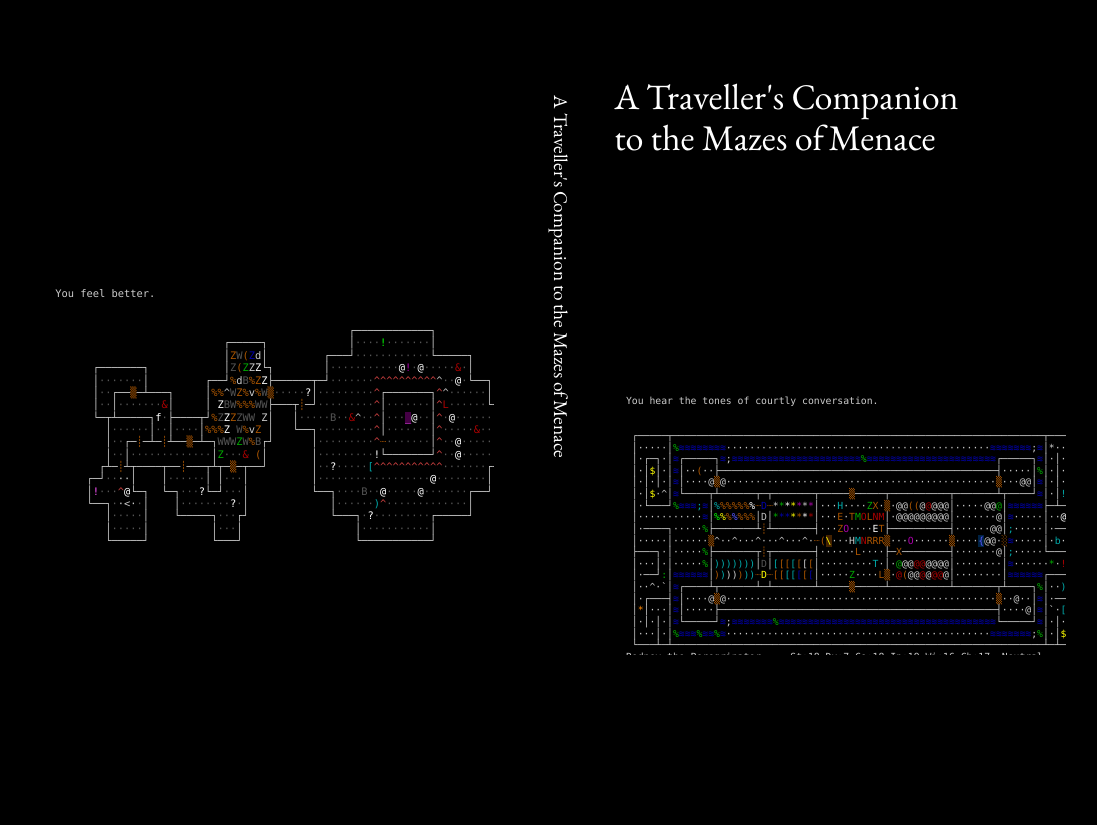
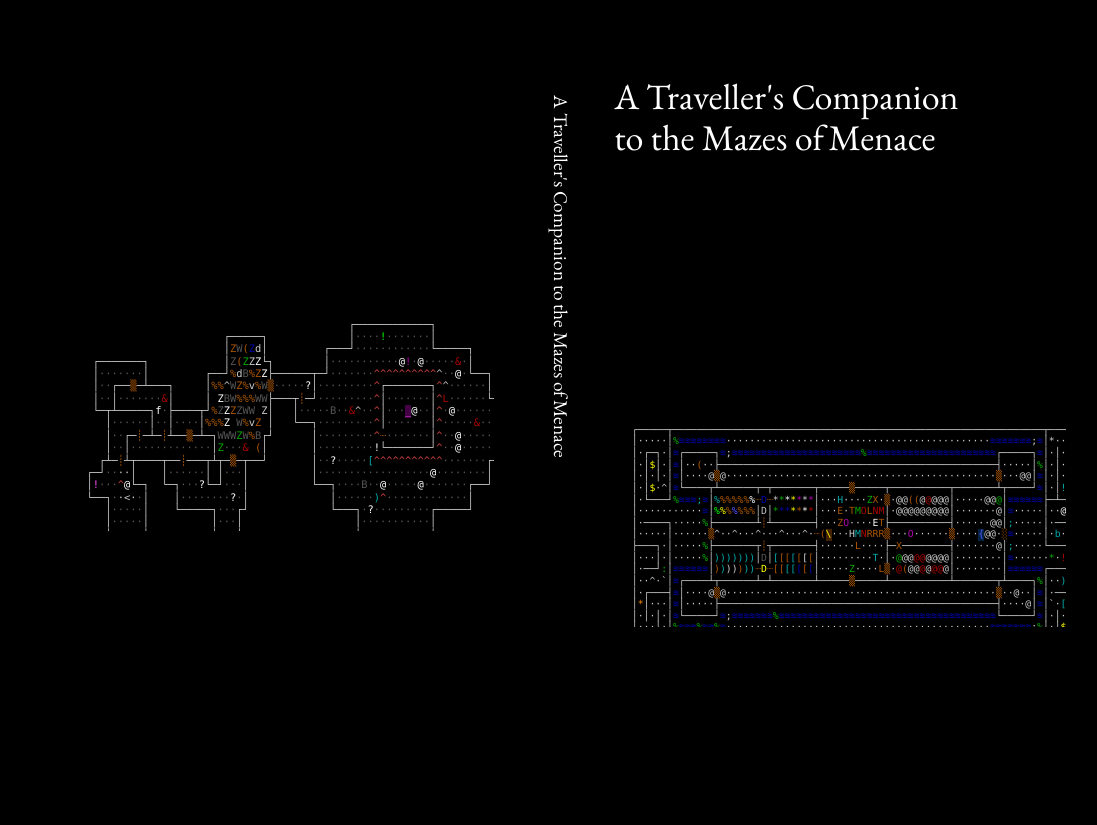
spoilers: audit units #146/#147/#148/#149 + cover-art clipping
#146 Lizards: clean.
#147 Felines: reframed two minor imprecisions — tigers are hostile,
not "early companions"; kittens are guaranteed only for Wizards,
50/50 for Valkyrie/Tourist.
#148 Morning star: clean.
#149 Mummies: dropped the false "touch curses your worn items"
claim (mummies do plain AD_PHYS; AD_CURS is gremlins). Tightened
the section intro. Added cold/sleep/pois-res notes to elf and
human mummy rows for consistency.

Cover work: clip the top "You hear..." message line and bottom
status line off the front and back NetHack-screenshot SVGs, so
the outside cover shows the dungeon maps alone. Plus the
Sokoban-conduct "solve it the way designers intended" line
dropped.

diff --git a/spoilers/index.html b/spoilers/index.html
@@ -9369,11 +9369,10 @@ counter: pushing into a wall to <strong>squeeze past</strong> a boulder
 (when you drop your stuff to fit), <strong>fracturing</strong> a boulder
 with a wand of striking or scroll of earth,
 <strong>polymorphing</strong> a boulder, or <strong>dismounting</strong>
-onto a boulder. Levitation and flying skip pits without penalty. Solve
-it the way the puzzle designers intended, by actually solving the
-puzzle. The game tracks violations automatically. The conduct is for
-players who enjoy Sokoban’s boulder-shoving and want their playthrough
-to acknowledge a clean solve.</p>
+onto a boulder. Levitation and flying skip pits without penalty. The
+game tracks violations automatically. The conduct is for players who
+enjoy Sokoban’s boulder-shoving and want their playthrough to
+acknowledge a clean solve.</p>
 </section>
 <section id="bonesless-new-in-5.0" class="level4">
 <h4>Bonesless (new in 5.0)</h4>
@@ -10412,6 +10411,7 @@ mace.</td>
 </section>
 <section id="morning-star" class="level4">
 <h4>Morning star</h4>
+<!-- audit 2026-05-18 #148: clean. Damage 1d4+1d4 / 1d6+1, weight 120, cost 10, hit 0, iron — all match objects.h:364 with bonus dice from weapon.c:225-289. P_MORNING_STAR is its own skill class (skills.h:35, id 12), distinct from P_MACE (id 11). No artifact morning star exists. -->
 <div class="dense-table">
 <table>
 <colgroup>
@@ -13972,8 +13972,13 @@ eyes first. Corpse grants telepathy.</td>
 </section>
 <section id="felines-f" class="level4">
 <h4>Felines <code>f</code></h4>
-<p>Cats. Several are starting pets. Tigers are durable melee and good
-early companions if tamed.</p>
+<!-- audit 2026-05-18 #147: all stats clean against monsters.h:381-444. Two minor reframings: (1) "Tigers are good early companions if tamed" — tigers are M2_HOSTILE (not M2_DOMESTIC) and difficulty 8, so they're tameable only with charm-monster/scroll-of-taming/magic-flute, not via tripe-feeding, and not really "early." (2) Kittens — only Wizard guarantees a kitten via urole.petnum=PM_KITTEN (role.c:548); Valkyrie/Tourist roll 50/50 kitten-or-dog via dog.c:90-101. Reworded the intro. -->
+<p>Cats. Kittens are common starting pets (Wizards always start with
+one; Valkyries and Tourists roll 50/50 between kitten and little dog).
+Wild felines (jaguar, lynx, panther, tiger, displacer beast) are hostile
+by default; you’d need a charm-monster spell, scroll of taming, or magic
+flute to flip them, and the wild rows aren’t really “early-game”
+creatures.</p>
 <div class="dense-table">
 <table>
 <colgroup>
@@ -16727,8 +16732,8 @@ resistance mandatory.</td>
 </section>
 <section id="mummies-m" class="level4">
 <h4>Mummies <code>M</code></h4>
-<p>Touch curses your worn items. Bring uncursing on hand (holy water,
-remove curse).</p>
+<!-- audit 2026-05-18 #149: corrected the "touch curses your worn items" advice — every mummy's attack in monsters.h:1901-1968 is plain AD_PHYS; only gremlins have AD_CURS (monattk.h:92). No special curse logic for S_MUMMY in mhitu.c/uhitm.c/mhitm.c. The note was residue from the prior "mummy withering" myth that audit #46 was supposed to scrub. Reworded to factual physical-only + undead-turning vulnerability. -->
+<p>Mindless undead. Wand and scroll of undead turning shred them.</p>
 <p>All mummies have poisonous corpses and are mindless and undead.</p>
 <div class="dense-table">
 <table>
@@ -16803,7 +16808,7 @@ remove curse).</p>
 <td>4</td>
 <td>30</td>
 <td>claw 2d4</td>
-<td></td>
+<td>cold-res, sleep-res, pois-res.</td>
 </tr>
 <tr>
 <td>human mummy</td>
@@ -16813,7 +16818,7 @@ remove curse).</p>
 <td>4</td>
 <td>30</td>
 <td>claw 2d4 · claw 2d4</td>
-<td></td>
+<td>cold-res, sleep-res, pois-res.</td>
 </tr>
 <tr>
 <td>ettin mummy</td>
@@ -19219,6 +19224,7 @@ fight one from a water square without magical breathing or escape.</p>
 </section>
 <section id="lizards" class="level4">
 <h4>Lizards <code>:</code></h4>
+<!-- audit 2026-05-18 #146: clean. All 8 entries (newt, gecko, iguana, baby crocodile, lizard, chameleon, crocodile, salamander) match monsters.h:3260-3324 for stats, attacks, and special flags. Lizard corpse cures stoning (eat.c:827-830, fix_petrification), never rots (eat.c:1483, 1510). Newt corpse occasionally restores 1-3 Pw via eye_of_newt_buzz (eat.c:1102-1123). Chameleon is M2_SHAPESHIFTER. Salamander has the 4-attack chain weapon 2d8 / touch 1d6 fire / hug 2d6 / hug 3d6 fire. -->
 <p>Mostly harmless. <strong>Lizard corpses cure petrification and never
 rot.</strong> Carry one at all times — this is the standard answer to
 cockatrices and Medusa.</p>

diff --git a/spoilers/cover/build-cover.py b/spoilers/cover/build-cover.py
@@ -98,18 +98,20 @@ def prepare(name: str, svg: Path, renderer="rsvg") -> tuple[Path, float, float]:
     return pdf, w, h
 
 
-def crop_pdf_to_viewbox(pdf_path: Path, vb_w: float, vb_h: float, out_path: Path):
-    """Chrome adds page margins and lays the SVG at the top-left of a
-    full US-letter page (612x792 by default). Crop to the SVG content
-    (assumed at origin)."""
+def crop_pdf_to_viewbox(pdf_path: Path, vb_w: float, vb_h: float, out_path: Path,
+                        top_px=0, bottom_px=0):
+    """Chrome lays the SVG at the top-left of a US-letter page. Crop to the
+    viewBox (1 SVG px = 0.75 pt at default 96 DPI), optionally trimming
+    `top_px` SVG-pixels off the top and `bottom_px` SVG-pixels off the
+    bottom. This is used to clip the NetHack-screenshot SVGs to just the
+    map area (no top "You hear..." message line, no bottom status line)."""
     src = fitz.open(pdf_path)
     page = src[0]
-    # Chrome at default settings renders SVG at its viewBox size in pt (1px = 0.75pt),
-    # so we need to know what scale Chrome used. Default Chrome print is 96 DPI:
-    # 1 SVG px = 0.75 pt. Our viewBox is in SVG px, so cropped rect = vb_w*0.75 x vb_h*0.75.
-    crop_w = vb_w * 0.75
-    crop_h = vb_h * 0.75
-    page.set_cropbox(fitz.Rect(0, 0, crop_w, crop_h))
+    px_to_pt = 0.75
+    top_pt = top_px * px_to_pt
+    bottom_pt = (vb_h - bottom_px) * px_to_pt
+    crop_w = vb_w * px_to_pt
+    page.set_cropbox(fitz.Rect(0, top_pt, crop_w, bottom_pt))
     src.save(str(out_path))
     src.close()
 
@@ -138,14 +140,24 @@ def main():
     d1_pdf, d1_w, d1_h = prepare("dmap1", HERE / "dmap-1-gehennom-map.svg")
     d2_pdf, d2_w, d2_h = prepare("dmap2", HERE / "dmap-2-elemental-planes-and-ascension.svg")
 
-    # Chrome embeds the SVG on a US-letter page with margins. Crop to viewBox.
+    # Chrome embeds the SVG on a US-letter page with margins. Crop to viewBox
+    # AND trim the top message line ("You hear...") and bottom status line
+    # ("Rodney the Peregrinator / Dlvl:25 ..."). In the SVGs the top message
+    # is at SVG-y≈14 and the status line is at y≈432/451 — so skip the top
+    # 56 px and bottom 36 px (each line ≈ 19 px tall with leading).
     castle_pdf = TMP / "front-castle-crop.pdf"
     sanctum_pdf = TMP / "back-sanctum-crop.pdf"
-    crop_pdf_to_viewbox(castle_raw, castle_w, castle_h, castle_pdf)
-    crop_pdf_to_viewbox(sanctum_raw, sanctum_w, sanctum_h, sanctum_pdf)
+    TOP_CLIP = 56
+    BOTTOM_CLIP = 36
+    crop_pdf_to_viewbox(castle_raw, castle_w, castle_h, castle_pdf,
+                        top_px=TOP_CLIP, bottom_px=BOTTOM_CLIP)
+    crop_pdf_to_viewbox(sanctum_raw, sanctum_w, sanctum_h, sanctum_pdf,
+                        top_px=TOP_CLIP, bottom_px=BOTTOM_CLIP)
     # show_pdf_page uses the cropbox dimensions; recompute logical w/h in pt:
-    castle_w *= 0.75; castle_h *= 0.75
-    sanctum_w *= 0.75; sanctum_h *= 0.75
+    castle_w *= 0.75
+    sanctum_w *= 0.75
+    castle_h = (castle_h - TOP_CLIP - BOTTOM_CLIP) * 0.75
+    sanctum_h = (sanctum_h - TOP_CLIP - BOTTOM_CLIP) * 0.75
 
     out = fitz.open()
 

diff --git a/spoilers/companion-audit.md b/spoilers/companion-audit.md
@@ -5320,3 +5320,82 @@ Source: `spoilers/companion.md` line 6370. 1 correction.
    enumerate the actual triggers with Luck cost.
 
 ---
+
+## 2026-05-18 — Chapter audit #146: Lizards `:`
+
+Source: `spoilers/companion.md` line 8159. No corrections.
+
+### Verified
+- All 8 entries (newt, gecko, iguana, baby crocodile, lizard,
+  chameleon, crocodile, salamander) match monsters.h:3260-3324
+  for stats, attacks, and flags.
+- Lizard corpse cures stoning (eat.c:827-830 fix_petrification).
+- Lizard corpses never rot (eat.c:1483, 1510).
+- Newt corpse → 1-3 Pw via eye_of_newt_buzz (eat.c:1102-1123).
+- Chameleon is M2_SHAPESHIFTER (monsters.h:3305).
+- Salamander 4-attack chain (weap 2d8 / touch 1d6 fire / hug 2d6 /
+  hug 3d6 fire) matches monsters.h:3318-3320.
+
+---
+
+## 2026-05-18 — Chapter audit #147: Felines `f`
+
+Source: `spoilers/companion.md` line 7211. 2 reframings; no
+substantive errors.
+
+### Verified
+- All 8 felines (kitten, housecat, jaguar, lynx, panther, large
+  cat, tiger, displacer beast) match monsters.h:381-444.
+- Displacer beast row consistent with prior #42/#106/#107 prose
+  (lvl 12, AC -10, 4d4/4d4/2d10, MR 0, speed 12, M3_DISPLACES).
+- Tameable (M2_DOMESTIC) entries: kitten, housecat, large cat.
+
+### Reframed
+- "Tigers are good early companions if tamed" — tigers are
+  M2_HOSTILE, difficulty 8, only tameable via magic. Not really
+  "early."
+- "Kittens are common Valkyrie/Wizard/Tourist starting pets" —
+  Wizard guarantees a kitten (role.c:548 PM_KITTEN); Valkyrie and
+  Tourist roll 50/50 via dog.c:90-101. Clarified.
+
+---
+
+## 2026-05-18 — Chapter audit #148: Morning star
+
+Source: `spoilers/companion.md` line 6769. No corrections.
+
+### Verified
+- Damage 1d4+1d4 / 1d6+1 (objects.h:364 sdam=4, ldam=6; weapon.c:
+  225-289 bonus dice).
+- Weight 120, cost 10, hit 0, iron — all match.
+- P_MORNING_STAR is its own skill (skills.h:35 id 12).
+- No artifact form (no MORNING_STAR entry in artilist.h).
+
+---
+
+## 2026-05-18 — Chapter audit #149: Mummies `M`
+
+Source: `spoilers/companion.md` line 7757. 1 correction +
+consistency fixes.
+
+### Verified
+- All 8 mummies (kobold/gnome/orc/dwarf/elf/human/ettin/giant) match
+  monsters.h:1901-1968 for stats, attacks, colors.
+- All mummy attacks are AT_CLAW AD_PHYS (no special status effect).
+- All mummies have MR_COLD | MR_SLEEP | MR_POISON, M1_POIS,
+  M1_MINDLESS, M2_UNDEAD.
+
+### Corrected
+1. **"Touch curses your worn items. Bring uncursing on hand."** —
+   wrong. AD_CURS is gremlins (monattk.h:92); mummies do plain
+   AD_PHYS. No special mummy curse logic in mhitu.c/uhitm.c/
+   mhitm.c. The line was residue from the "mummy withering" myth
+   that audit #46 was supposed to scrub. Reworded to factual
+   plain-physical + undead-turning vulnerability.
+
+### Consistency
+- elf mummy and human mummy rows were missing the "cold-res,
+  sleep-res, pois-res" notes that all other mummy rows carry.
+  Added.
+
+---

diff --git a/spoilers/companion.md b/spoilers/companion.md
@@ -6922,10 +6922,9 @@ costs **1 point of Luck** and increments the conduct counter: pushing
 into a wall to **squeeze past** a boulder (when you drop your stuff
 to fit), **fracturing** a boulder with a wand of striking or scroll
 of earth, **polymorphing** a boulder, or **dismounting** onto a
-boulder. Levitation and flying skip pits without penalty. Solve it
-the way the puzzle designers intended, by actually solving the
-puzzle. The game tracks violations automatically. The conduct is
-for players who enjoy Sokoban's
+boulder. Levitation and flying skip pits without penalty. The game
+tracks violations automatically. The conduct is for players who
+enjoy Sokoban's
 boulder-shoving and want their playthrough to acknowledge a
 clean solve.
 
@@ -7339,6 +7338,8 @@ other bimanual weapon.
 :::
 
 #### Morning star
+<!-- audit 2026-05-18 #148: clean. Damage 1d4+1d4 / 1d6+1, weight 120, cost 10, hit 0, iron — all match objects.h:364 with bonus dice from weapon.c:225-289. P_MORNING_STAR is its own skill class (skills.h:35, id 12), distinct from P_MACE (id 11). No artifact morning star exists. -->
+
 
 ::: dense-table
 
@@ -7985,8 +7986,14 @@ All eyes and spheres fly. All except *floating eye* also are mindless.
 :::
 
 #### Felines `f`
+<!-- audit 2026-05-18 #147: all stats clean against monsters.h:381-444. Two minor reframings: (1) "Tigers are good early companions if tamed" — tigers are M2_HOSTILE (not M2_DOMESTIC) and difficulty 8, so they're tameable only with charm-monster/scroll-of-taming/magic-flute, not via tripe-feeding, and not really "early." (2) Kittens — only Wizard guarantees a kitten via urole.petnum=PM_KITTEN (role.c:548); Valkyrie/Tourist roll 50/50 kitten-or-dog via dog.c:90-101. Reworded the intro. -->
 
-Cats. Several are starting pets. Tigers are durable melee and good early companions if tamed.
+Cats. Kittens are common starting pets (Wizards always start with
+one; Valkyries and Tourists roll 50/50 between kitten and little
+dog). Wild felines (jaguar, lynx, panther, tiger, displacer beast)
+are hostile by default; you'd need a charm-monster spell, scroll
+of taming, or magic flute to flip them, and the wild rows aren't
+really "early-game" creatures.
 
 ::: dense-table
 
@@ -8562,8 +8569,9 @@ All liches regenerate, leave no corpse, and are undead, cold-resistant, sleep-re
 :::
 
 #### Mummies `M`
+<!-- audit 2026-05-18 #149: corrected the "touch curses your worn items" advice — every mummy's attack in monsters.h:1901-1968 is plain AD_PHYS; only gremlins have AD_CURS (monattk.h:92). No special curse logic for S_MUMMY in mhitu.c/uhitm.c/mhitm.c. The note was residue from the prior "mummy withering" myth that audit #46 was supposed to scrub. Reworded to factual physical-only + undead-turning vulnerability. -->
 
-Touch curses your worn items. Bring uncursing on hand (holy water, remove curse).
+Mindless undead. Wand and scroll of undead turning shred them.
 
 All mummies have poisonous corpses and are mindless and undead.
 
@@ -8575,8 +8583,8 @@ All mummies have poisonous corpses and are mindless and undead.
 | gnome mummy | red | 4 | 10 | 6 | 20 | claw 1d6 | cold-res, sleep-res, pois-res. |
 | orc mummy | gray | 5 | 10 | 5 | 20 | claw 1d6 | cold-res, sleep-res, pois-res. |
 | dwarf mummy | red | 5 | 10 | 5 | 20 | claw 1d6 | cold-res, sleep-res, pois-res. |
-| elf mummy | green | 6 | 12 | 4 | 30 | claw 2d4 |  |
-| human mummy | gray | 6 | 12 | 4 | 30 | claw 2d4 · claw 2d4 |  |
+| elf mummy | green | 6 | 12 | 4 | 30 | claw 2d4 | cold-res, sleep-res, pois-res. |
+| human mummy | gray | 6 | 12 | 4 | 30 | claw 2d4 · claw 2d4 | cold-res, sleep-res, pois-res. |
 | ettin mummy | blue | 7 | 12 | 4 | 30 | claw 2d6 · claw 2d6 | cold-res, sleep-res, pois-res. |
 | giant mummy | cyan | 8 | 14 | 3 | 30 | claw 3d4 · claw 3d4 | cold-res, sleep-res, pois-res. |
 
@@ -8994,6 +9002,8 @@ All sea monsters swim and are amphibious.
 :::
 
 #### Lizards `:`
+<!-- audit 2026-05-18 #146: clean. All 8 entries (newt, gecko, iguana, baby crocodile, lizard, chameleon, crocodile, salamander) match monsters.h:3260-3324 for stats, attacks, and special flags. Lizard corpse cures stoning (eat.c:827-830, fix_petrification), never rots (eat.c:1483, 1510). Newt corpse occasionally restores 1-3 Pw via eye_of_newt_buzz (eat.c:1102-1123). Chameleon is M2_SHAPESHIFTER. Salamander has the 4-attack chain weapon 2d8 / touch 1d6 fire / hug 2d6 / hug 3d6 fire. -->
+
 
 Mostly harmless. **Lizard corpses cure petrification and never rot.** Carry one at all times — this is the standard answer to cockatrices and Medusa.
 

diff --git a/spoilers/companion-audit-queue.md b/spoilers/companion-audit-queue.md
@@ -150,10 +150,10 @@ Process in numbered order. Mark each `[x]` as it's audited.
 - [x] **#143**  L 7297  (  17 lines)   ↳ Bestiary Tables → Kobolds `k`
 - [x] **#144**  L 4790  ( 142 lines) 📖 Luck and Fortune
 - [x] **#145**  L 6370  (  10 lines)   ↳ Voluntary Challenges → Sokoban (new in 5.0)
-- [ ] **#146**  L 8159  (  21 lines)   ↳ Bestiary Tables → Lizards `:`
-- [ ] **#147**  L 7211  (  19 lines)   ↳ Bestiary Tables → Felines `f`
-- [ ] **#148**  L 6769  (  10 lines)   ↳ Weapons Tables → Morning star
-- [ ] **#149**  L 7757  (  21 lines)   ↳ Bestiary Tables → Mummies `M`
+- [x] **#146**  L 8159  (  21 lines)   ↳ Bestiary Tables → Lizards `:`
+- [x] **#147**  L 7211  (  19 lines)   ↳ Bestiary Tables → Felines `f`
+- [x] **#148**  L 6769  (  10 lines)   ↳ Weapons Tables → Morning star
+- [x] **#149**  L 7757  (  21 lines)   ↳ Bestiary Tables → Mummies `M`
 - [ ] **#150**  L 2054  (  25 lines)   ↳ Dangerous Encounters → The Riders
 - [ ] **#151**  L 2911  (  39 lines)   ↳ A Practical Identification Strategy → A Practical Strategy
 - [ ] **#152**  L 7230  (  14 lines)   ↳ Bestiary Tables → Gremlins `g`